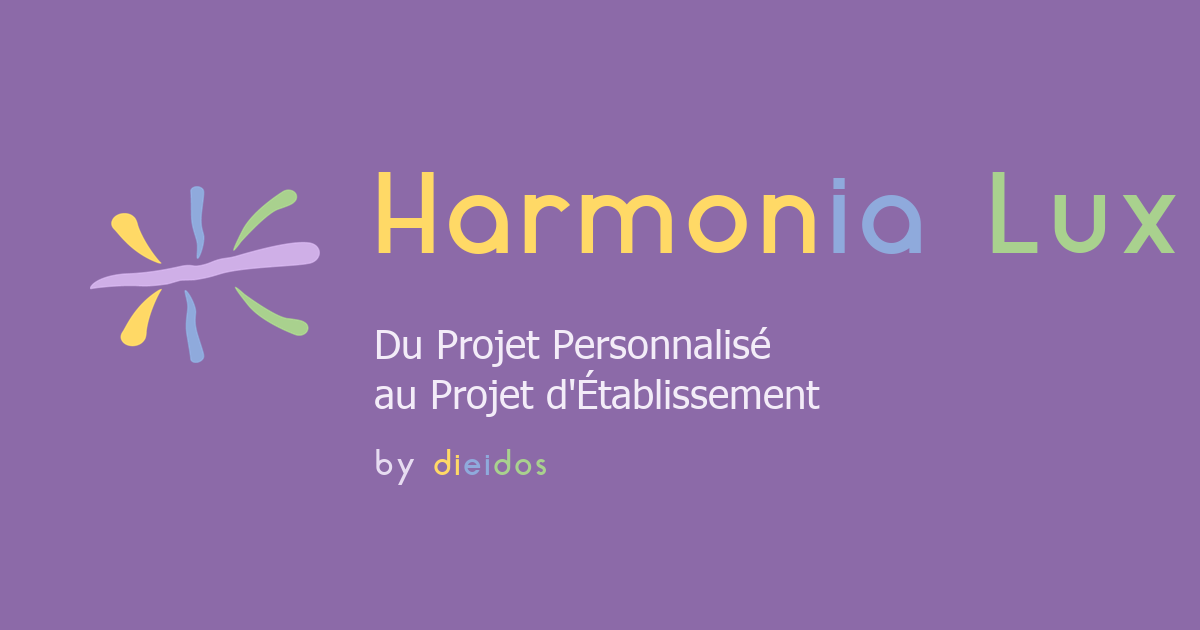
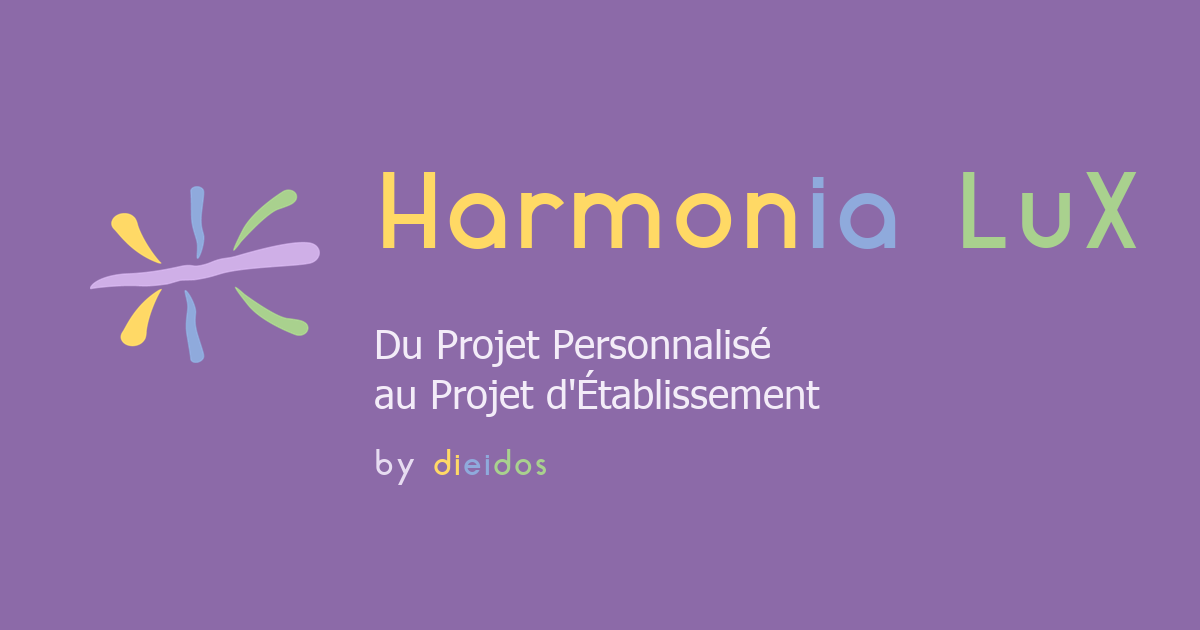
Finitions : Sujets plus humain, LuX dans le partage, code inutile retiré, README

Changed region(s): [[0.3083, 0.2714, 0.7708, 0.4222], [0.8017, 0.2714, 0.9867, 0.4222]]

diff --git a/index.html b/index.html
@@ -9,14 +9,14 @@
 <link rel="canonical" href="https://dieidos.github.io/HLuX/">
 <meta property="og:type" content="website">
 <meta property="og:locale" content="fr_FR">
-<meta property="og:site_name" content="Harmonia Lux">
+<meta property="og:site_name" content="Harmonia LuX">
 <meta property="og:title" content="Atlas - HLuX, by dieidos">
 <meta property="og:description" content="Du Projet Personnalisé au Projet d'Établissement : un même fil, d'Amina au CHRS Les Lilas. By dieidos.">
 <meta property="og:url" content="https://dieidos.github.io/HLuX/">
 <meta property="og:image" content="https://dieidos.github.io/HLuX/og.png">
 <meta property="og:image:width" content="1200">
 <meta property="og:image:height" content="630">
-<meta property="og:image:alt" content="Harmonia Lux, du Projet Personnalisé au Projet d'Établissement">
+<meta property="og:image:alt" content="Harmonia LuX, du Projet Personnalisé au Projet d'Établissement">
 <meta name="twitter:card" content="summary_large_image">
 <link rel="manifest" href="manifest.webmanifest">
 <link rel="icon" type="image/png" href="icons/icon-192.png">
@@ -1068,7 +1068,7 @@ footer .by{color:#565f6f}
 
 <!-- 07 -->
 <section class="scene pe" id="sujets" data-scene="p07"><div class="wrap">
-  <div class="scene-head"><div class="num">07</div><div><h3>📥 Sujets</h3><p class="simple">Quels sujets travailler ? Seulement après un geste explicite.</p><div class="labels"><span class="lbl kind">Participation, expression collective et saisine</span></div><div class="dots"></div></div></div>
+  <div class="scene-head"><div class="num">07</div><div><h3>📥 Sujets</h3><p class="simple">Quels sujets travailler ? Seulement si la personne le veut.</p><div class="labels"><span class="lbl kind">Participation, expression collective et saisine</span></div><div class="dots"></div></div></div>
   <div class="scene-body"><div class="stage"><div class="storyboard"></div><div class="device"><div class="screen-fit">
     <div class="app pe" data-on="0">
       <div class="cols">
@@ -1538,104 +1538,11 @@ function defineScene(id, who, steps) {
 }
 
 /* ---------- « pourquoi ? » : conception, garde-fou, cadre (repris des V1 à V3) ---------- */
-const WHY = {
-  p01: [
-    { k: "On entre, on n'administre pas : pas de sas, pas de formulaire long, jamais de mot de passe.", g: "Les données d'Amina restent sur son téléphone ou sur la tablette, pas en ligne, sauf ce qu'elle choisit de partager.", f: "PP · expression et participation de la personne." },
-    { k: "Une question, trois grands choix : l'accès vient avant toute explication.", g: "Écouter, version simple et langue sont là sur chaque écran, dès le départ." },
-    { k: "La Carte se crée en parlant, en écrivant ou en choisissant une image.", g: "Sarah n'écrit pas à la place d'Amina : la parole d'origine est gardée telle quelle." },
-    { k: "Une Carte garde son identité, sa provenance et son historique, du premier geste jusqu'à l'engagement du CHRS." }
-  ],
-  p02: [
-    { k: "Les états sont des lieux, pas un menu ; « ça va » reste toujours visible, sans geste.", g: "Parler au micro reste un choix : Amina peut aussi se contenter de toucher une carte. Ce qu'elle dit n'est jamais enregistré.", f: "PP · recueil des attentes, des besoins et des éléments de situation." },
-    { k: "Ce qu'on peut prendre se voit au repos ; les destinations s'éclairent dès la prise." },
-    { k: "Le geste se voit sans lire : carte soulevée, traînée, point de contact." },
-    { k: "Changer d'état, c'est déplacer la carte : aucun autre chemin. Annuler, c'est le même geste à l'envers.", g: "Aucun écran de validation, aucune note : la personne n'est jamais évaluée." },
-    { k: "La phrase d'origine est la seule trace du verbatim ; la version simple s'affiche à côté, jamais à sa place.", g: "Rien n'entre au dossier sans un geste d'Amina." }
-  ],
-  p03: [
-    { k: "L'Ikigai réutilise le geste du Bilan : rien de nouveau à apprendre.", f: "PP · aspirations, souhaits et possibilités envisagées." },
-    { k: "Les croisements se nomment sous le doigt, jamais comme une grille ou une coordonnée." },
-    { k: "Une hypothèse n'est qu'un intitulé ; elle naît d'une Carte et en garde le lien.", g: "L'application ne propose aucune hypothèse : tout vient d'Amina ou de la séance." },
-    { k: "À la prise, les quatre cercles s'éclairent : les destinations se montrent d'elles-mêmes." },
-    { k: "La position est un geste, pas une mesure : aucun score n'est calculé." },
-    { k: "Une hypothèse posée se reprend et se déplace à tout moment.", g: "L'écarter par le bord est le seul geste irréversible, et l'écran le dit clairement." }
-  ],
-  p04: [
-    { k: "Les critères ne sont pas les Cartes : on range les quatre axes, jamais les hypothèses.", f: "PP · priorités exprimées par la personne." },
-    { k: "Quatre rangs dits avec des mots : d'abord, ensuite, aussi, moins. Deux axes peuvent partager un rang.", g: "« Je ne sais pas encore » est une réponse légitime, jamais signalée comme un défaut." },
-    { k: "Les lignes s'empilent dans l'ordre des rangs : la plus importante est haute et contrastée, la dernière discrète.", g: "C'est la personne qui lit ses lignes ; l'application ne calcule aucun classement." },
-    { k: "Une ligne situe les idées les unes par rapport aux autres : quatre y tiennent, huit encore." },
-    { k: "Réglé une fois, révisable toujours : l'ordre vaut pour toutes les hypothèses, présentes et à venir.", g: "Ni total, ni pourcentage : la phrase dit ce qui a changé, en mots." }
-  ],
-  p05: [
-    { k: "Choisir qui éclaire quoi : chaque invité, dans sa langue et par son canal.", g: "Chaque invité voit uniquement l'hypothèse qui le concerne, jamais le dossier.", f: "PP · co-construction, coordination et regards croisés." },
-    { k: "L'invitée reçoit le même geste que la personne : prendre, poser sur la ligne.", g: "Lien éphémère, sans compte ni installation ; il se régénère d'un geste s'il expire." },
-    { k: "L'attente porte les commandes d'Amina : rythme des relances, retirer un invité, révéler sans attendre.", g: "On voit qui a répondu, jamais le contenu ; le silence est une réponse acceptable, dite sans reproche." },
-    { k: "Les marques d'Amina en plein, sur ses lignes rangées." },
-    { k: "Les marques de Salma en pointillé, sur les mêmes lignes : rien n'est encore comparé." },
-    { k: "La bande s'étend de la marque la plus à gauche à la plus à droite.", g: "Aucune moyenne : un désaccord franc et un accord tiède ne se confondent jamais.", g2: "Sarah n'a qu'un carnet de rendez-vous, sans indicateur ni statut ; elle ne propose qu'en séance, à deux." },
-    { k: "« Avec l'ordre de Sarah » ne déplace aucune marque : il réempile les lignes. Mêmes places, autre lecture.", g: "Le regard professionnel éclaire, il ne tranche pas." }
-  ],
-  p06: [
-    { k: "Au repos, trois choses seulement : le chemin choisi, ses étapes, le temps.", f: "PP · objectifs personnalisés, modalités d'accompagnement, plan d'action et révision." },
-    { k: "Deux ou trois mots par étape ; la phrase entière, sa date et ce qu'elle ouvre vivent dans le toucher." },
-    { k: "La légende arrive avec les autres chemins et repart avec eux ; une alternative n'est jamais grise." },
-    { k: "La condition s'écrit sur sa branche ; la dépendance se trace, avec sa phrase." },
-    { k: "On essaie un futur sur une copie : le cadre en pointillé dit qu'on joue.", g: "Le vrai chemin reste intact ; rien n'est décidé par l'application." },
-    { k: "Deux sorties, jamais implicites : garder l'idée pour la séance, ou refermer." },
-    { k: "Ce qu'Amina emporte, en quatre temps et dans ses mots.", g: "Son dossier lui appartient : son récit reste amendable (« ce n'est pas comme ça que je le dirais ») et s'exporte, même si le compte de la structure est désactivé." }
-  ],
-  p07: [
-    { k: "Le collectif ne reçoit jamais un dossier individuel.", g: "Seul passe ce que la personne choisit d'apporter, sous la forme qu'elle choisit.", f: "PE · participation des personnes accompagnées, expression collective et saisine." },
-    { k: "Sa version et la version collective restent côte à côte : Amina voit exactement ce que verront les autres." },
-    { k: "Le consentement est situé : quoi, pour qui, pourquoi.", g: "« Pas maintenant » reste possible ; chaque passage est inscrit dans l'historique de la Carte." },
-    { k: "La même Carte, avec sa provenance, passe du jaune au vert.", g: "Les présents ne portent aucun statut ; l'absence est dite sans reproche." }
-  ],
-  p08: [
-    { k: "La même table que le Bilan d'Amina, au pluriel.", f: "PE · diagnostic partagé." },
-    { k: "Le tour de parole se voit : la main et la personne qui parle restent visibles." },
-    { k: "Chaque carte porte sa source : parole consentie, équipe, CVS." },
-    { k: "Qualification collective : situation individuelle, signal à vérifier, difficulté répétée, enjeu confirmé.", g: "Un cas isolé ne devient jamais une vérité générale." },
-    { k: "La relecture à voix haute, une phrase par carte, ferme la boucle avant d'orienter." }
-  ],
-  p09: [
-    { k: "Le même Ikigai, au pluriel ; « nous en vivons », ce sont les moyens et les financements.", f: "PE · orientations stratégiques." },
-    { k: "Placement à tour de rôle ou à main levée, guidé par l'animatrice." },
-    { k: "Deux placements revendiqués restent affichés, comme un sujet à discuter.", g: "Pas de moyenne des positions." },
-    { k: "Le changement attendu est observable, pour pouvoir l'évaluer plus tard." }
-  ],
-  p10: [
-    { k: "Le geste d'Amina en 04, avec les critères du métier : effet, droits, urgence, faisabilité, ressources, coopération.", f: "PE · priorisation et arbitrage des enjeux." },
-    { k: "Le 360° du collectif : animation, équipe, personnes accompagnées, direction, CVS.", g: "Chaque voix garde sa marque ; aucune majorité automatique." },
-    { k: "Chacun règle seul ses rangs et ses lignes, sur la tablette qui passe ou sur son mobile.", g: "On voit qui a placé, jamais où, jusqu'au geste de révélation." },
-    { k: "Les marques de Karim en plein ; celles des autres restent invisibles." },
-    { k: "Révélation : les marques de tous se superposent.", g: "Jamais de vote, jamais de comptage, pas même « la plupart »." },
-    { k: "Les phrases nomment qui converge avec qui ; le désaccord reste ouvert." },
-    { k: "La décision est une phrase dictée, reformulée, puis validée par le groupe.", g: "Elle garde sa provenance : diagnostic, orientation, critères, lignes." }
-  ],
-  p11: [
-    { k: "Plusieurs solutions avant un objectif : on ne fige pas la première idée.", f: "PE · objectifs opérationnels et plan d'action." },
-    { k: "Les mêmes lignes et la même bande que le 360° d'Amina : les regards se croisent sans se moyenner." },
-    { k: "La Carte-engagement porte le fil depuis Papiers, la parole d'Amina." }
-  ],
-  p12: [
-    { k: "La grammaire de Mon chemin, au pluriel : couloirs, décisions, événements.", f: "PE · pilotage, calendrier, suivi et évaluation." },
-    { k: "La dépendance se trace sans reproche ; la condition s'écrit sur sa branche." },
-    { k: "Une ligne par charge : son nom, ses porteurs, son rythme.", g: "On remarque les prénoms ; l'application ne compte jamais et ne dit pas qui porte le plus." },
-    { k: "Le réel reboucle : un engagement reste révisable par ses résultats." },
-    { k: "Un seul sens : le collectif ne lit jamais le chemin d'Amina.", g: "C'est elle qui y fait entrer ce qu'il propose, d'un geste, depuis son propre espace." }
-  ]
-};
-function whyHTML(id, j, fallback) {
-  const w = (WHY[id] || [])[j] || { k: fallback };
-  return [['k', '🎨', 'Conception'], ['g', '🛡', 'Garde-fou'], ['f', '📚', 'Cadre']]
-    .filter(([key]) => w[key]).map(([key, ic, lab]) => `<span class="wl"><b>${ic} ${lab}</b> · ${w[key]}</span>`).join('');
-}
 
 /* ---------- « En savoir plus » : 🎨 Conception · 🛡 Garde-fou · 📚 Cadre, pour chacun des 36 textes ---------- */
 const NOTE_WHY = {
   p01: [
-    ["Pour entrer, il suffit d'un prénom et d'une phrase.", "Les données d'Amina restent sur son téléphone ou sur la tablette, pas en ligne, sauf ce qu'elle choisit de partager.", "Loi 2002-2 et CASF L311-3 : libre choix et participation directe de la personne à son projet."],
+    ["Pour entrer, il suffit d'un prénom et d'une phrase.", "Les données d'Amina restent sur son téléphone ou sur la tablette, pas en ligne, sauf ce qu'elle choisit de partager à l'équipe.", "Loi 2002-2 et CASF L311-3 : libre choix et participation directe de la personne à son projet."],
     ["Une Carte se crée en parlant, en écrivant ou en choisissant une image.", "Sarah n'écrit pas à la place d'Amina : la parole d'origine est gardée telle quelle.", "Recommandation HAS (ex-Anesm) « Les attentes de la personne et le projet personnalisé »."],
     ["Une Carte garde son identité, sa provenance et son historique, jusqu'au Projet d'Établissement.", "Ce qui est écrit sur Amina lui est montré, dans ses mots et dans sa langue.", "CASF L311-3 : droit à l'information et accès aux informations qui la concernent."]
   ],
@@ -1717,14 +1624,6 @@ const NOTES = {
   p12: [[2, "Le suivi : qui porte quoi, et quand."], [3, "Amina relie l'atelier à son chemin.", 'amina'], [4, "Au printemps, trois personnes lisent seules leurs courriers."]]
 };
 const PHASES = ['a', 'g', 'p'];
-function whyFor(id, from, to) {
-  const ws = (WHY[id] || []).slice(from, to + 1); const pick = key => (ws.find(w => w && w[key]) || {})[key];
-  const last = ws[ws.length - 1] || {};
-  const gs = [...new Set(ws.flatMap(w => w ? [w.g, w.g2] : []).filter(Boolean))].slice(0, 2);
-  const line = (ic, lab, t) => `<span class="wl"><b>${ic} ${lab}</b> · ${t}</span>`;
-  return [last.k || pick('k')].filter(Boolean).map(t => line('🎨', 'Conception', t)).join('')
-    + gs.map(t => line('🛡', 'Garde-fou', t)).join('');
-}
 /* ---------- Le récit, écran par écran : une phrase, un portrait, un « pourquoi ? » ---------- */
 defineScene('p01', 'amina', [
   { r: "Amina ouvre HLuX. On l'accueille par son prénom.", c: "On entre, on n'administre pas : ni sas, ni formulaire.", do: h => h.cls('choices', 'dim') },

diff --git a/src/app.js b/src/app.js
@@ -257,104 +257,11 @@ function defineScene(id, who, steps) {
 }
 
 /* ---------- « pourquoi ? » : conception, garde-fou, cadre (repris des V1 à V3) ---------- */
-const WHY = {
-  p01: [
-    { k: "On entre, on n'administre pas : pas de sas, pas de formulaire long, jamais de mot de passe.", g: "Les données d'Amina restent sur son téléphone ou sur la tablette, pas en ligne, sauf ce qu'elle choisit de partager.", f: "PP · expression et participation de la personne." },
-    { k: "Une question, trois grands choix : l'accès vient avant toute explication.", g: "Écouter, version simple et langue sont là sur chaque écran, dès le départ." },
-    { k: "La Carte se crée en parlant, en écrivant ou en choisissant une image.", g: "Sarah n'écrit pas à la place d'Amina : la parole d'origine est gardée telle quelle." },
-    { k: "Une Carte garde son identité, sa provenance et son historique, du premier geste jusqu'à l'engagement du CHRS." }
-  ],
-  p02: [
-    { k: "Les états sont des lieux, pas un menu ; « ça va » reste toujours visible, sans geste.", g: "Parler au micro reste un choix : Amina peut aussi se contenter de toucher une carte. Ce qu'elle dit n'est jamais enregistré.", f: "PP · recueil des attentes, des besoins et des éléments de situation." },
-    { k: "Ce qu'on peut prendre se voit au repos ; les destinations s'éclairent dès la prise." },
-    { k: "Le geste se voit sans lire : carte soulevée, traînée, point de contact." },
-    { k: "Changer d'état, c'est déplacer la carte : aucun autre chemin. Annuler, c'est le même geste à l'envers.", g: "Aucun écran de validation, aucune note : la personne n'est jamais évaluée." },
-    { k: "La phrase d'origine est la seule trace du verbatim ; la version simple s'affiche à côté, jamais à sa place.", g: "Rien n'entre au dossier sans un geste d'Amina." }
-  ],
-  p03: [
-    { k: "L'Ikigai réutilise le geste du Bilan : rien de nouveau à apprendre.", f: "PP · aspirations, souhaits et possibilités envisagées." },
-    { k: "Les croisements se nomment sous le doigt, jamais comme une grille ou une coordonnée." },
-    { k: "Une hypothèse n'est qu'un intitulé ; elle naît d'une Carte et en garde le lien.", g: "L'application ne propose aucune hypothèse : tout vient d'Amina ou de la séance." },
-    { k: "À la prise, les quatre cercles s'éclairent : les destinations se montrent d'elles-mêmes." },
-    { k: "La position est un geste, pas une mesure : aucun score n'est calculé." },
-    { k: "Une hypothèse posée se reprend et se déplace à tout moment.", g: "L'écarter par le bord est le seul geste irréversible, et l'écran le dit clairement." }
-  ],
-  p04: [
-    { k: "Les critères ne sont pas les Cartes : on range les quatre axes, jamais les hypothèses.", f: "PP · priorités exprimées par la personne." },
-    { k: "Quatre rangs dits avec des mots : d'abord, ensuite, aussi, moins. Deux axes peuvent partager un rang.", g: "« Je ne sais pas encore » est une réponse légitime, jamais signalée comme un défaut." },
-    { k: "Les lignes s'empilent dans l'ordre des rangs : la plus importante est haute et contrastée, la dernière discrète.", g: "C'est la personne qui lit ses lignes ; l'application ne calcule aucun classement." },
-    { k: "Une ligne situe les idées les unes par rapport aux autres : quatre y tiennent, huit encore." },
-    { k: "Réglé une fois, révisable toujours : l'ordre vaut pour toutes les hypothèses, présentes et à venir.", g: "Ni total, ni pourcentage : la phrase dit ce qui a changé, en mots." }
-  ],
-  p05: [
-    { k: "Choisir qui éclaire quoi : chaque invité, dans sa langue et par son canal.", g: "Chaque invité voit uniquement l'hypothèse qui le concerne, jamais le dossier.", f: "PP · co-construction, coordination et regards croisés." },
-    { k: "L'invitée reçoit le même geste que la personne : prendre, poser sur la ligne.", g: "Lien éphémère, sans compte ni installation ; il se régénère d'un geste s'il expire." },
-    { k: "L'attente porte les commandes d'Amina : rythme des relances, retirer un invité, révéler sans attendre.", g: "On voit qui a répondu, jamais le contenu ; le silence est une réponse acceptable, dite sans reproche." },
-    { k: "Les marques d'Amina en plein, sur ses lignes rangées." },
-    { k: "Les marques de Salma en pointillé, sur les mêmes lignes : rien n'est encore comparé." },
-    { k: "La bande s'étend de la marque la plus à gauche à la plus à droite.", g: "Aucune moyenne : un désaccord franc et un accord tiède ne se confondent jamais.", g2: "Sarah n'a qu'un carnet de rendez-vous, sans indicateur ni statut ; elle ne propose qu'en séance, à deux." },
-    { k: "« Avec l'ordre de Sarah » ne déplace aucune marque : il réempile les lignes. Mêmes places, autre lecture.", g: "Le regard professionnel éclaire, il ne tranche pas." }
-  ],
-  p06: [
-    { k: "Au repos, trois choses seulement : le chemin choisi, ses étapes, le temps.", f: "PP · objectifs personnalisés, modalités d'accompagnement, plan d'action et révision." },
-    { k: "Deux ou trois mots par étape ; la phrase entière, sa date et ce qu'elle ouvre vivent dans le toucher." },
-    { k: "La légende arrive avec les autres chemins et repart avec eux ; une alternative n'est jamais grise." },
-    { k: "La condition s'écrit sur sa branche ; la dépendance se trace, avec sa phrase." },
-    { k: "On essaie un futur sur une copie : le cadre en pointillé dit qu'on joue.", g: "Le vrai chemin reste intact ; rien n'est décidé par l'application." },
-    { k: "Deux sorties, jamais implicites : garder l'idée pour la séance, ou refermer." },
-    { k: "Ce qu'Amina emporte, en quatre temps et dans ses mots.", g: "Son dossier lui appartient : son récit reste amendable (« ce n'est pas comme ça que je le dirais ») et s'exporte, même si le compte de la structure est désactivé." }
-  ],
-  p07: [
-    { k: "Le collectif ne reçoit jamais un dossier individuel.", g: "Seul passe ce que la personne choisit d'apporter, sous la forme qu'elle choisit.", f: "PE · participation des personnes accompagnées, expression collective et saisine." },
-    { k: "Sa version et la version collective restent côte à côte : Amina voit exactement ce que verront les autres." },
-    { k: "Le consentement est situé : quoi, pour qui, pourquoi.", g: "« Pas maintenant » reste possible ; chaque passage est inscrit dans l'historique de la Carte." },
-    { k: "La même Carte, avec sa provenance, passe du jaune au vert.", g: "Les présents ne portent aucun statut ; l'absence est dite sans reproche." }
-  ],
-  p08: [
-    { k: "La même table que le Bilan d'Amina, au pluriel.", f: "PE · diagnostic partagé." },
-    { k: "Le tour de parole se voit : la main et la personne qui parle restent visibles." },
-    { k: "Chaque carte porte sa source : parole consentie, équipe, CVS." },
-    { k: "Qualification collective : situation individuelle, signal à vérifier, difficulté répétée, enjeu confirmé.", g: "Un cas isolé ne devient jamais une vérité générale." },
-    { k: "La relecture à voix haute, une phrase par carte, ferme la boucle avant d'orienter." }
-  ],
-  p09: [
-    { k: "Le même Ikigai, au pluriel ; « nous en vivons », ce sont les moyens et les financements.", f: "PE · orientations stratégiques." },
-    { k: "Placement à tour de rôle ou à main levée, guidé par l'animatrice." },
-    { k: "Deux placements revendiqués restent affichés, comme un sujet à discuter.", g: "Pas de moyenne des positions." },
-    { k: "Le changement attendu est observable, pour pouvoir l'évaluer plus tard." }
-  ],
-  p10: [
-    { k: "Le geste d'Amina en 04, avec les critères du métier : effet, droits, urgence, faisabilité, ressources, coopération.", f: "PE · priorisation et arbitrage des enjeux." },
-    { k: "Le 360° du collectif : animation, équipe, personnes accompagnées, direction, CVS.", g: "Chaque voix garde sa marque ; aucune majorité automatique." },
-    { k: "Chacun règle seul ses rangs et ses lignes, sur la tablette qui passe ou sur son mobile.", g: "On voit qui a placé, jamais où, jusqu'au geste de révélation." },
-    { k: "Les marques de Karim en plein ; celles des autres restent invisibles." },
-    { k: "Révélation : les marques de tous se superposent.", g: "Jamais de vote, jamais de comptage, pas même « la plupart »." },
-    { k: "Les phrases nomment qui converge avec qui ; le désaccord reste ouvert." },
-    { k: "La décision est une phrase dictée, reformulée, puis validée par le groupe.", g: "Elle garde sa provenance : diagnostic, orientation, critères, lignes." }
-  ],
-  p11: [
-    { k: "Plusieurs solutions avant un objectif : on ne fige pas la première idée.", f: "PE · objectifs opérationnels et plan d'action." },
-    { k: "Les mêmes lignes et la même bande que le 360° d'Amina : les regards se croisent sans se moyenner." },
-    { k: "La Carte-engagement porte le fil depuis Papiers, la parole d'Amina." }
-  ],
-  p12: [
-    { k: "La grammaire de Mon chemin, au pluriel : couloirs, décisions, événements.", f: "PE · pilotage, calendrier, suivi et évaluation." },
-    { k: "La dépendance se trace sans reproche ; la condition s'écrit sur sa branche." },
-    { k: "Une ligne par charge : son nom, ses porteurs, son rythme.", g: "On remarque les prénoms ; l'application ne compte jamais et ne dit pas qui porte le plus." },
-    { k: "Le réel reboucle : un engagement reste révisable par ses résultats." },
-    { k: "Un seul sens : le collectif ne lit jamais le chemin d'Amina.", g: "C'est elle qui y fait entrer ce qu'il propose, d'un geste, depuis son propre espace." }
-  ]
-};
-function whyHTML(id, j, fallback) {
-  const w = (WHY[id] || [])[j] || { k: fallback };
-  return [['k', '🎨', 'Conception'], ['g', '🛡', 'Garde-fou'], ['f', '📚', 'Cadre']]
-    .filter(([key]) => w[key]).map(([key, ic, lab]) => `<span class="wl"><b>${ic} ${lab}</b> · ${w[key]}</span>`).join('');
-}
 
 /* ---------- « En savoir plus » : 🎨 Conception · 🛡 Garde-fou · 📚 Cadre, pour chacun des 36 textes ---------- */
 const NOTE_WHY = {
   p01: [
-    ["Pour entrer, il suffit d'un prénom et d'une phrase.", "Les données d'Amina restent sur son téléphone ou sur la tablette, pas en ligne, sauf ce qu'elle choisit de partager.", "Loi 2002-2 et CASF L311-3 : libre choix et participation directe de la personne à son projet."],
+    ["Pour entrer, il suffit d'un prénom et d'une phrase.", "Les données d'Amina restent sur son téléphone ou sur la tablette, pas en ligne, sauf ce qu'elle choisit de partager à l'équipe.", "Loi 2002-2 et CASF L311-3 : libre choix et participation directe de la personne à son projet."],
     ["Une Carte se crée en parlant, en écrivant ou en choisissant une image.", "Sarah n'écrit pas à la place d'Amina : la parole d'origine est gardée telle quelle.", "Recommandation HAS (ex-Anesm) « Les attentes de la personne et le projet personnalisé »."],
     ["Une Carte garde son identité, sa provenance et son historique, jusqu'au Projet d'Établissement.", "Ce qui est écrit sur Amina lui est montré, dans ses mots et dans sa langue.", "CASF L311-3 : droit à l'information et accès aux informations qui la concernent."]
   ],
@@ -436,14 +343,6 @@ const NOTES = {
   p12: [[2, "Le suivi : qui porte quoi, et quand."], [3, "Amina relie l'atelier à son chemin.", 'amina'], [4, "Au printemps, trois personnes lisent seules leurs courriers."]]
 };
 const PHASES = ['a', 'g', 'p'];
-function whyFor(id, from, to) {
-  const ws = (WHY[id] || []).slice(from, to + 1); const pick = key => (ws.find(w => w && w[key]) || {})[key];
-  const last = ws[ws.length - 1] || {};
-  const gs = [...new Set(ws.flatMap(w => w ? [w.g, w.g2] : []).filter(Boolean))].slice(0, 2);
-  const line = (ic, lab, t) => `<span class="wl"><b>${ic} ${lab}</b> · ${t}</span>`;
-  return [last.k || pick('k')].filter(Boolean).map(t => line('🎨', 'Conception', t)).join('')
-    + gs.map(t => line('🛡', 'Garde-fou', t)).join('');
-}
 /* ---------- Le récit, écran par écran : une phrase, un portrait, un « pourquoi ? » ---------- */
 defineScene('p01', 'amina', [
   { r: "Amina ouvre HLuX. On l'accueille par son prénom.", c: "On entre, on n'administre pas : ni sas, ni formulaire.", do: h => h.cls('choices', 'dim') },

diff --git a/src/body.html b/src/body.html
@@ -298,7 +298,7 @@
 
 <!-- 07 -->
 <section class="scene pe" id="sujets" data-scene="p07"><div class="wrap">
-  <div class="scene-head"><div class="num">07</div><div><h3>📥 Sujets</h3><p class="simple">Quels sujets travailler ? Seulement après un geste explicite.</p><div class="labels"><span class="lbl kind">Participation, expression collective et saisine</span></div><div class="dots"></div></div></div>
+  <div class="scene-head"><div class="num">07</div><div><h3>📥 Sujets</h3><p class="simple">Quels sujets travailler ? Seulement si la personne le veut.</p><div class="labels"><span class="lbl kind">Participation, expression collective et saisine</span></div><div class="dots"></div></div></div>
   <div class="scene-body"><div class="stage"><div class="storyboard"></div><div class="device"><div class="screen-fit">
     <div class="app pe" data-on="0">
       <div class="cols">

diff --git a/src/build.py b/src/build.py
@@ -35,14 +35,14 @@ html = f'''<!doctype html>
 <link rel="canonical" href="{SITE}">
 <meta property="og:type" content="website">
 <meta property="og:locale" content="fr_FR">
-<meta property="og:site_name" content="Harmonia Lux">
+<meta property="og:site_name" content="Harmonia LuX">
 <meta property="og:title" content="{TITLE}">
 <meta property="og:description" content="{DESC}">
 <meta property="og:url" content="{SITE}">
 <meta property="og:image" content="{SITE}og.png">
 <meta property="og:image:width" content="1200">
 <meta property="og:image:height" content="630">
-<meta property="og:image:alt" content="Harmonia Lux, du Projet Personnalisé au Projet d'Établissement">
+<meta property="og:image:alt" content="Harmonia LuX, du Projet Personnalisé au Projet d'Établissement">
 <meta name="twitter:card" content="summary_large_image">
 <link rel="manifest" href="manifest.webmanifest">
 <link rel="icon" type="image/png" href="icons/icon-192.png">

diff --git a/README.md b/README.md
@@ -1,4 +1,4 @@
-# Harmonia Lux · Atlas
+# Harmonia LuX · Atlas
 
 **Du Projet Personnalisé au Projet d'Établissement.** Un atlas interactif en 12 écrans qui suit un même fil, d'Amina au CHRS Les Lilas. Il se présente sur tablette, étape par étape, et se lit seul, à son rythme : il suffit de faire défiler.
 
@@ -22,7 +22,7 @@ La page `index.html` est générée : ne la modifiez pas directement. Les source
 |---|---|
 | `src/body.html` | Le contenu : couverture, écrans, maquettes |
 | `src/style.css` | Les styles (couleurs dieidos, cartes, chemins) |
-| `src/app.js` | Le moteur : défilement guidé, étapes, textes (`NOTES`), explications (`WHY`), portraits, pictos |
+| `src/app.js` | Le moteur : défilement guidé, étapes, textes (`NOTES`), explications « En savoir plus » (`NOTE_WHY`), portraits, pictos |
 | `src/logo.svg`, `src/aqua.ttf` | Le symbole dieidos et la police des titres |
 
 Après une modification, régénérez la page :
